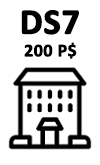
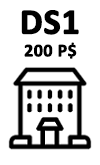
Grafiki, poprawka, i naprawa jednego błędu z wyświetlaniem akademika

Changed region(s): [[0.6, 0.0606, 0.81, 0.2121]]

diff --git a/src/GamingWindow.java b/src/GamingWindow.java
@@ -187,7 +187,8 @@ public class GamingWindow {
                     String imagePath1 = "assets\\CS.png";
                     String imagePath21 = "assets\\mintus.png";
                     if (i == 2 || i == 3) imagePath1 = "assets\\Red_chance.png";
-                    if (i == 6 || i == 7) imagePath1 = "assets\\dorm_down.png";
+                    if (i == 6) imagePath1 = "assets\\dorm_up.png";
+                    if (i == 7) imagePath1 = "assets\\dorm_down.png";
                     if (i == 11) imagePath1 = "assets\\blue_chance.png";
 
                     if (i != 10) {
